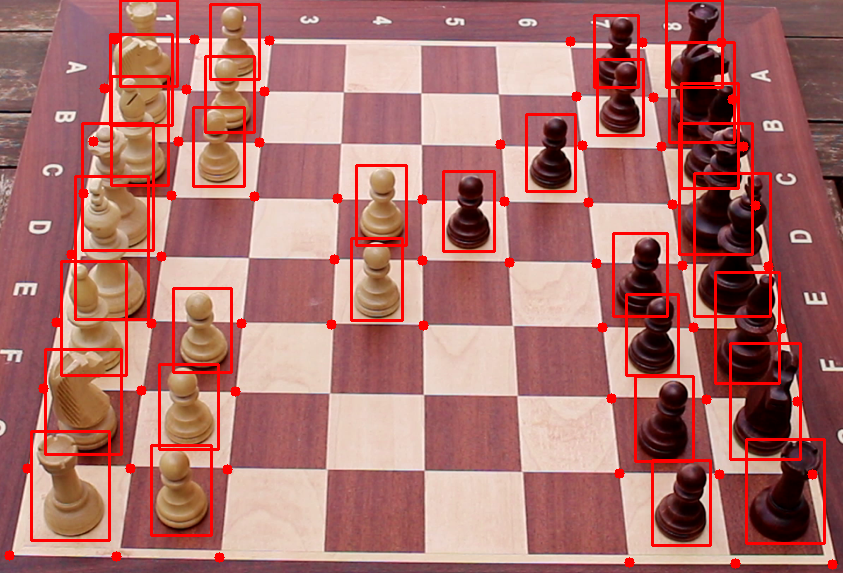
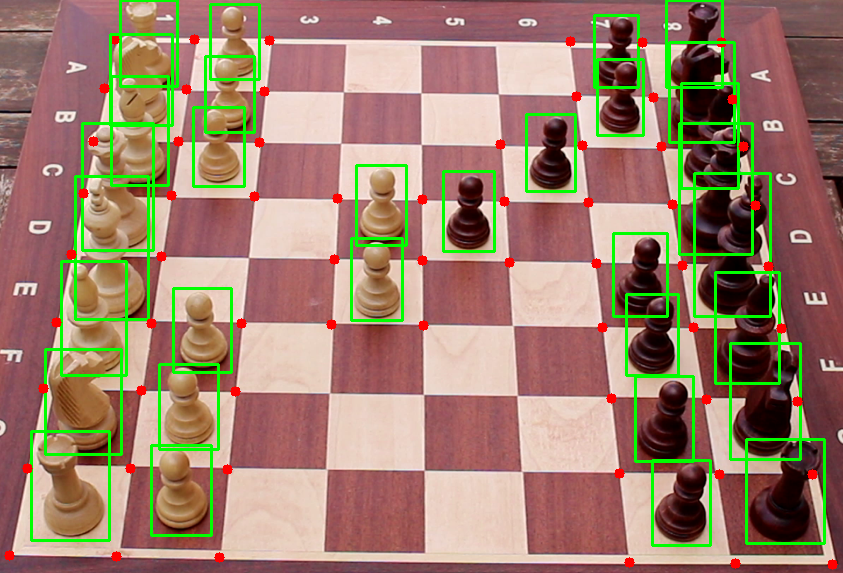
✨Ordenado para FEN

diff --git a/edge_detection.py b/edge_detection.py
@@ -17,6 +17,7 @@ class ChessPiece:
         self.piece_coords = piece_coords
         self.piece_type = piece_type
 
+    
 # Returns a array of 64 cells with the coordinates of the corners of each cell
 def calculate_cells(points):
     # Order the points by y coordinate (top to bottom)
@@ -31,10 +32,11 @@ def calculate_cells(points):
         if ((i+1) % 9 > 0 or i == 0):
             cell = np.array([coordinates[i],coordinates[i+1],coordinates[i+9],coordinates[i+10]])
             if(debug):
+                img_cells = img.copy()
                 for point in cell:
-                    cv2.circle(img, (int(point[0]), int(point[1])), 5, (0, 0, 255), -1)
+                    cv2.circle(img_cells, (int(point[0]), int(point[1])), 5, (0, 0, 255), -1)
                     # Show the image with the detected edges
-                cf.show_image(img, "Casillas")
+                cf.show_image(img_cells, "Casillas")
             cells.append(cell)
     return cells
 
@@ -133,6 +135,9 @@ if debug:
 
     # Save the image with the detected edges
     cv2.imwrite("edge-detection/results/" + name + "_edges.png", img)
+    
+    # Clean the image
+    img = cv2.imread("edge-detection/assets/" + name + ".png")
 
 cells = calculate_cells(points)
 # print(cells)
@@ -180,14 +185,36 @@ for line in lines:
     
     chess_pieces.append(ChessPiece(cell_coords=result,piece_coords=(l,t,r,b), piece_type=chess_piece))
 
-for piece in chess_pieces:
-    cv2.circle(img, (int(piece.cell_coords[0][0]), int(piece.cell_coords[0][1])), 5, (0, 0, 255), -1)
-    cv2.circle(img, (int(piece.cell_coords[1][0]), int(piece.cell_coords[1][1])), 5, (0, 0, 255), -1)
-    cv2.circle(img, (int(piece.cell_coords[2][0]), int(piece.cell_coords[2][1])), 5, (0, 0, 255), -1)
-    cv2.circle(img, (int(piece.cell_coords[3][0]), int(piece.cell_coords[3][1])), 5, (0, 0, 255), -1)
-    cv2.rectangle(img, (int(piece.piece_coords[0]), int(piece.piece_coords[1])), (int(piece.piece_coords[2]), int(piece.piece_coords[3])), (0, 0, 255), 2)
+# Order the pieces to chess board order
+ordered_chess_pieces = []
+i = 0
+j = 0
+chessboard = [[None for i in range(8)] for j in range(8)]
+for cell in cells:
+    if i == 8:
+        i = 0
+        j += 1
+    for piece in chess_pieces:
+        if np.array_equal(piece.cell_coords, cell):
+            print(piece.piece_type, i, j)  
+            chessboard[i][j] = piece
+    i += 1
 
-cf.show_image(img, "Result")    
+# Invert the rows (for FEN notation)
+chessboard = chessboard[::-1]
+
+if debug:
+    # Draw the pieces on the image
+    for i in range(8):
+        for j in range(8):
+            piece = chessboard[i][j]
+            if piece is not None:
+                l, t, r, b = piece.piece_coords
+                cv2.rectangle(img, (int(l), int(t)), (int(r), int(b)), (0, 255, 0), 2)
+                cv2.circle(img, (int(piece.cell_coords[0][0]), int(piece.cell_coords[0][1])), 5, (0, 0, 255), -1)
+                cv2.circle(img, (int(piece.cell_coords[1][0]), int(piece.cell_coords[1][1])), 5, (0, 0, 255), -1)
+                cv2.circle(img, (int(piece.cell_coords[2][0]), int(piece.cell_coords[2][1])), 5, (0, 0, 255), -1)
+                cv2.circle(img, (int(piece.cell_coords[3][0]), int(piece.cell_coords[3][1])), 5, (0, 0, 255), -1)
+            cf.show_image(img,"Chess pieces")
+
 cv2.imwrite("edge-detection/results/" + name + "_result.png", img)
-
-
